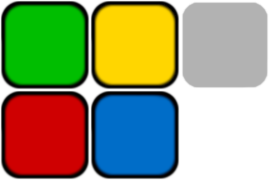
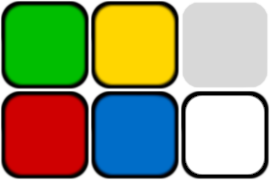
up

Changed region(s): [[0.6519, 0.0, 1.0, 1.0]]

diff --git a/src/Entities/ui/CounterTile.java b/src/Entities/ui/CounterTile.java
@@ -1,28 +1,94 @@
 package Entities.ui;
-
-import Entities.Counters.Counter;
 import Entities.Entity;
+import GFX.Assets;
 import ludogame.Handler;
 
 import java.awt.*;
+import java.awt.image.BufferedImage;
 
 public class CounterTile extends Entity {
 
-    private  static final int COUNTER_TILE_WIDTH=90,
-                              COUNTER_TILE_HEIGHT=90;
+    public static final int COUNTER_TILE_WIDTH=90,
+                            COUNTER_TILE_HEIGHT=90;
 
-    CounterTile(Handler handler, float x, float y, Counter counter){
+    private static final int COUNTER_WIDTH=32,
+                             COUNTER_HEIGHT=60;
+
+    private Rectangle hitbox;
+    private boolean hover;
+    private boolean clicked;
+
+    private BufferedImage[] img;
+
+    CounterTile(Handler handler, float x, float y,BufferedImage color){
         super(handler,x,y,COUNTER_TILE_WIDTH,COUNTER_TILE_HEIGHT);
+        this.hitbox=new Rectangle((int)x,(int)y,COUNTER_TILE_WIDTH,COUNTER_TILE_HEIGHT);
+        this.hover=false;
 
+        img=new BufferedImage[3];
+        this.clicked=false;
+        this.img[0]=color;
+        this.img[1]=null;
+        this.img[2]=null;
     }
+
+    CounterTile(Handler handler, float x, float y,BufferedImage color, BufferedImage img_f,BufferedImage img_b){
+        super(handler,x,y,COUNTER_TILE_WIDTH,COUNTER_TILE_HEIGHT);
+        this.img[0]=color;
+        this.img[1]=img_f;
+        this.img[2]=img_b;
+    }
+
+    CounterTile(Handler handler, float x, float y,BufferedImage color, BufferedImage img_f){
+        super(handler,x,y,COUNTER_TILE_WIDTH,COUNTER_TILE_HEIGHT);
+        this.img[0]=color;
+        this.img[1]=img_f;
+        this.img[2]=null;
+    }
+
 
     @Override
     public void tick() {
 
+        hover= this.hitbox.contains(handler.getHoverX(), handler.getHoverY());
+
+        if(this.hitbox.contains(handler.getMouseClickX(),handler.getMouseClickY())){
+            handler.resetMousePOS();
+            changeClicked();
+        }
     }
 
     @Override
     public void render(Graphics g) {
 
+        g.drawImage(Assets.tile[5],(int)x,(int)y,null);
+
+        if(img[2]!=null)
+            g.drawImage(this.img[2],(int)x+29,(int)y+15,COUNTER_WIDTH,COUNTER_HEIGHT,null);
+
+        g.drawImage(this.img[0],(int)x+29,(int)y+15,COUNTER_WIDTH,COUNTER_HEIGHT,null);
+        g.drawImage(this.img[1],(int)x+29,(int)y+15,COUNTER_WIDTH,COUNTER_HEIGHT,null);
+
+        if(hover&&!clicked||hover&&clicked)
+            g.drawImage(Assets.tile[4],(int)x,(int)y,null);
+
+        else if(clicked&&!hover) {
+            g.drawImage(Assets.tile[4], (int) x, (int) y, null);
+            g.drawImage(Assets.tile[4], (int) x, (int) y, null);
+        }
+    }
+
+    private void changeClicked(){
+        if(!clicked)
+            clicked = true;
+
+        else if(clicked)
+            clicked = false;
+
+        System.out.println("WYBOR: " + clicked);
+    }
+
+    public boolean ischoosen(){
+        return this.clicked;
     }
 }

diff --git a/src/Entities/ui/LegendPick.java b/src/Entities/ui/LegendPick.java
@@ -4,28 +4,67 @@ import Entities.Entity;
 import ludogame.Handler;
 
 import java.awt.*;
+import java.awt.image.BufferedImage;
 
 public class LegendPick extends Entity {
 
+    public static final int LEGEND_WINDOW_W=190,
+                            LEGEND_WINDOW_H=190,
+                            LEGEND_WINDOW_X=300,
+                            LEGEND_WINDOW_Y=200;
 
+    private static final int SPACING=10;
 
+    private final CounterTile[] counterTile;
 
-    public LegendPick(Handler handler, float x, float y, int width, int height) {
-        super(handler, x, y, width, height);
+    private final BufferedImage counter;
+
+    public LegendPick(Handler handler,BufferedImage counter) {
+        super(handler,0,0,LEGEND_WINDOW_W,LEGEND_WINDOW_H);
+        //super(handler,(handler.getFrameWidth()-LEGEND_WINDOW_W)/2,(handler.getFrameHeight()-LEGEND_WINDOW_H)/2, LEGEND_WINDOW_W,LEGEND_WINDOW_H);
+
+        this.counter=counter;
+
+        counterTile=new CounterTile[8];
+
+        counterTile[0]=new CounterTile(handler,LEGEND_WINDOW_W+0,LEGEND_WINDOW_H+0,counter);
+        counterTile[1]=new CounterTile(handler,LEGEND_WINDOW_W+CounterTile.COUNTER_TILE_WIDTH+SPACING,LEGEND_WINDOW_H+0,counter);
+        counterTile[2]=new CounterTile(handler,LEGEND_WINDOW_W+(CounterTile.COUNTER_TILE_WIDTH+SPACING)*2,LEGEND_WINDOW_H+0,counter);
+        counterTile[3]=new CounterTile(handler,LEGEND_WINDOW_W+(CounterTile.COUNTER_TILE_WIDTH+SPACING)*3,LEGEND_WINDOW_H+0,counter);
+        counterTile[4]=new CounterTile(handler,LEGEND_WINDOW_W+0,LEGEND_WINDOW_H+CounterTile.COUNTER_TILE_HEIGHT+SPACING,counter);
+        counterTile[5]=new CounterTile(handler,LEGEND_WINDOW_W+CounterTile.COUNTER_TILE_WIDTH+SPACING,LEGEND_WINDOW_H+CounterTile.COUNTER_TILE_HEIGHT+SPACING,counter);
+        counterTile[6]=new CounterTile(handler,LEGEND_WINDOW_W+(CounterTile.COUNTER_TILE_WIDTH+SPACING)*2,LEGEND_WINDOW_H+CounterTile.COUNTER_TILE_HEIGHT+SPACING,counter);
+        counterTile[7]=new CounterTile(handler,LEGEND_WINDOW_W+(CounterTile.COUNTER_TILE_WIDTH+SPACING)*3,LEGEND_WINDOW_H+CounterTile.COUNTER_TILE_HEIGHT+SPACING,counter);
+
     }
 
     @Override
     public void tick() {
+
+        counterTile[0].tick();
+        counterTile[1].tick();
+        counterTile[2].tick();
+        counterTile[3].tick();
+        counterTile[4].tick();
+        counterTile[5].tick();
+        counterTile[6].tick();
+        counterTile[7].tick();
 
     }
 
     @Override
     public void render(Graphics g) {
 
+        g.fillRect((int)x,(int)y,LEGEND_WINDOW_W,LEGEND_WINDOW_H);
 
-
-
-
+        counterTile[0].render(g);
+        counterTile[1].render(g);
+        counterTile[2].render(g);
+        counterTile[3].render(g);
+        counterTile[4].render(g);
+        counterTile[5].render(g);
+        counterTile[6].render(g);
+        counterTile[7].render(g);
 
     }
 }

diff --git a/src/states/PrepState.java b/src/states/PrepState.java
@@ -1,14 +1,9 @@
 package states;
 
 import Entities.Counters.*;
-import Entities.Players.Blank;
-import Entities.Players.Bot;
-import Entities.Players.Person;
-import Entities.ui.Button;
-
-
-import Entities.ui.PlayerPick;
+import Entities.ui.*;
 import Entities.Players.Player;
+import Entities.ui.Button;
 import GFX.Assets;
 import ludogame.Game;
 import ludogame.Handler;
@@ -27,6 +22,7 @@ public class PrepState extends State {
 
     private int picking=0;
     private boolean typePick;
+    private final LegendPick[] legendPick;
 
     public PrepState(Handler handler) {
         super(handler);
@@ -34,6 +30,13 @@ public class PrepState extends State {
         counter=new Counter[8];
         player=new Player[4];
         this.typePick=true;
+
+        legendPick=new LegendPick[4];
+
+        legendPick[0]=new LegendPick(handler,Assets.counter[0]);
+        legendPick[1]=new LegendPick(handler,Assets.counter[1]);
+        legendPick[2]=new LegendPick(handler,Assets.counter[2]);
+        legendPick[3]=new LegendPick(handler,Assets.counter[3]);
 
         playerPick=new PlayerPick[4];
 
@@ -78,11 +81,18 @@ public class PrepState extends State {
 
         else if(!typePick) {
 
+            legendPick[picking].tick();
+
             if (apply.getHitbox().contains(handler.getMouseClickX(), handler.getMouseClickY())) {
-                //System.out.println("Pick: " + picking);
+                handler.resetMousePOS();
+                System.out.println("Pick: " + picking);
+                picking++;
             }
 
+            if(picking==5){
 
+
+            }
         }
 
         apply.tick();
@@ -102,16 +112,10 @@ public class PrepState extends State {
         }
         else{
 
-        }
-
-    }
-
-    private void setPlayer(Player player) {
-        for(int i=0;i<4;i++){
-            if(this.player[i]==null)
-                this.player[i]=player;
+            legendPick[picking].render(g);
 
         }
+
     }
 
     public Player[] getPlayers(){

diff --git a/src/Entities/Players/Person.java b/src/Entities/Players/Person.java
@@ -1,6 +1,7 @@
 package Entities.Players;
 import ludogame.Handler;
 import states.GameState;
+import states.SettingState;
 
 import java.awt.*;
 import java.awt.image.BufferedImage;
@@ -8,10 +9,9 @@ import java.awt.image.BufferedImage;
 
 public class Person extends Player {
 
-    private Handler handler;
+    private final Handler handler;
 
-    private int mx,my;
-    private static final int ANIM_TICKS=25;
+    private static final int ANIM_TICKS=(int)(0.42* SettingState.FPS);
     private int tickcount=-1;
 
     private boolean clicked=false;
@@ -19,8 +19,7 @@ public class Person extends Player {
     public Person(Handler handler, int startingPos,int endingPos, BufferedImage ccolor) { //zmienic na getter
         super(startingPos,endingPos,ccolor);
         this.handler = handler;
-        mx=-1;
-        my=-1;
+
     }
 
 
@@ -36,7 +35,6 @@ public class Person extends Player {
                 clicked=true;
         }
 
-
         if(counterNr>0) {
             counter[counterNr].tick();
             System.out.println("CLICKED: "+counterNr);
@@ -46,12 +44,10 @@ public class Person extends Player {
 
     @Override
     public void render(Graphics g) {
-
         counter[0].render(g);
         counter[1].render(g);
         counter[2].render(g);
         counter[3].render(g);
-
     }
 
     @Override
@@ -62,8 +58,6 @@ public class Person extends Player {
     private void resetTick(){
         this.tickcount=-1;
         this.counterNr=-1;
-        this.mx=-1;
-        this.my=-1;
     }
 
     private int getInput() {
@@ -81,10 +75,4 @@ public class Person extends Player {
             return -1;
     }
 
-    private void setMx(int mx){
-        this.mx=mx;
-    }
-    private void setMy(int my){
-        this.my=my;
-    }
 }

diff --git a/src/GFX/Assets.java b/src/GFX/Assets.java
@@ -30,7 +30,7 @@ public class Assets {
                                   counter =new BufferedImage[4],
                                   back_button =new BufferedImage[2],
                                   reset_button =new BufferedImage[2],
-                                  tile=new BufferedImage[5],
+                                  tile=new BufferedImage[6],
                                   player=new BufferedImage[3],
                                   arrow=new BufferedImage[5];
 
@@ -86,10 +86,10 @@ public class Assets {
         timerFrame=ImageLoader.loadImage("graphics/Dice/Timer.png");
 
         //kolory pionkow
-        counter[0]=counters.crop(0,0,P_WIDTH,P_HEIGHT);
-        counter[1]=counters.crop(P_WIDTH,0,P_WIDTH,P_HEIGHT);
+        counter[0]=counters.crop(P_WIDTH,0,P_WIDTH,P_HEIGHT);
+        counter[1]=counters.crop(P_WIDTH,P_HEIGHT,P_WIDTH,P_HEIGHT);
         counter[2]=counters.crop(0,P_HEIGHT,P_WIDTH,P_HEIGHT);
-        counter[3]=counters.crop(P_WIDTH,P_HEIGHT,P_WIDTH,P_HEIGHT);
+        counter[3]=counters.crop(0,0,P_WIDTH,P_HEIGHT);
 
         //kolory tła wyboru
         SpriteSheet tileSheet=new SpriteSheet(ImageLoader.loadImage("graphics/PreparationState/tileSheet.png"));
@@ -98,6 +98,7 @@ public class Assets {
         tile[2]=tileSheet.crop(0,TILE_HEIGHT,TILE_WIDTH,TILE_HEIGHT);
         tile[3]=tileSheet.crop(0,0,TILE_WIDTH,TILE_HEIGHT);
         tile[4]=tileSheet.crop(TILE_WIDTH*2,0,TILE_WIDTH,TILE_HEIGHT);
+        tile[5]=tileSheet.crop(TILE_WIDTH*2,TILE_HEIGHT,TILE_WIDTH,TILE_HEIGHT);
 
         //strzałki przy wyborze
         SpriteSheet arrowSheet=new SpriteSheet(ImageLoader.loadImage("graphics/PreparationState/arrowSheet.png"));

diff --git a/src/Entities/Counters/Albali.java b/src/Entities/Counters/Albali.java
@@ -1,6 +1,5 @@
 package Entities.Counters;
 
-import Entities.ui.CounterTile;
 import GFX.Assets;
 import ludogame.Handler;
 
@@ -11,12 +10,9 @@ public class Albali extends Counter {
 
     private static final int ULT_LOAD=40;
 
-    CounterTile counterTile;
 
     public Albali(Handler handler, float x, float y,int counterNr) {
         super(handler,x, y,counterNr, Assets.counter[0]);
-
-        //counterTile=new CounterTile()
     }
 
     @Override

diff --git a/src/Entities/Players/Player.java b/src/Entities/Players/Player.java
@@ -38,7 +38,6 @@ public abstract class Player {
         for(int i=0;i<4;i++){
             if(this.counter[i]==null) {
                 this.counter[i] = counter;
-                break;
             }
         }
     }

diff --git a/src/states/State.java b/src/states/State.java
@@ -25,7 +25,6 @@ public abstract class State {
 
     }
 
-    //
     public abstract  void tick();
 
     public abstract void render(Graphics g);
